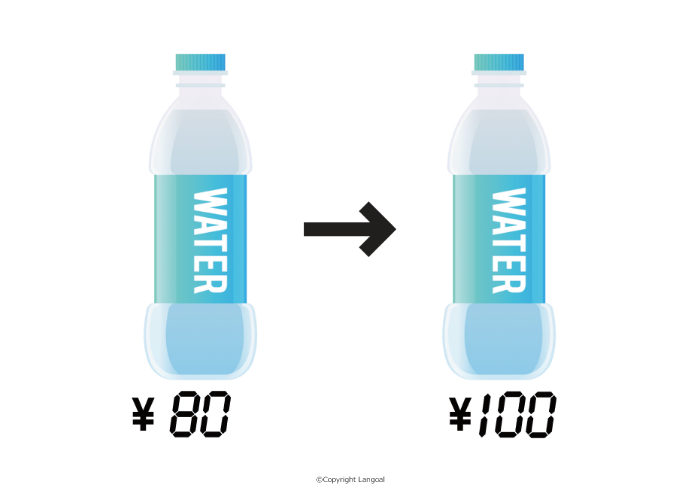
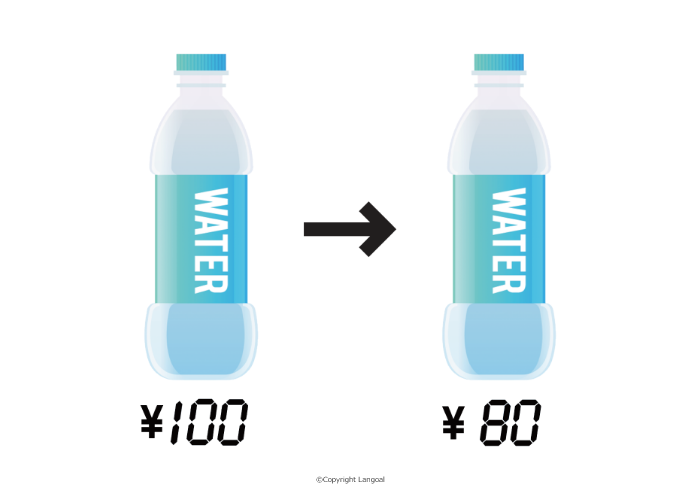
L43

diff --git a/src/store/indexStore.js b/src/store/indexStore.js
@@ -2038,7 +2038,7 @@ export default defineStore("indexStore", {
                     { type: "動詞", name: "上がります［値段が〜］", reading: "あがります［ねだんが〜］" },
                     { type: "動詞", name: "下がります［値段が〜］", reading: "さがります［ねだんが〜］" },
                     { type: "動詞", name: "切れます［ひもが〜］", reading: "きれます［ひもが〜］" },
-                    { type: "動詞", name: "取れます［ボタンが］", reading: "とれます［ぼたんが〜］" },
+                    { type: "動詞", name: "取れます［ボタンが］", reading: "とれます［ボタンが］" },
                     { type: "動詞", name: "落ちます［荷物が〜］", reading: "おちます［にもつが〜］" },
                     { type: "動詞", name: "なくなります［ガソリンが〜］", reading: "" },
                     { type: "動詞", name: "なくなります［財布が〜］", reading: "なくなります［さいふが〜］" },
